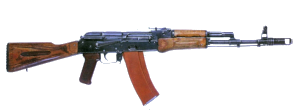
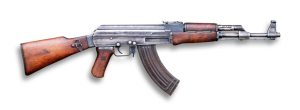
Replaced the AK74 image

Changed region(s): [[0.0, 0.1636, 0.99, 0.9545]]

diff --git a/LICENSE.md b/LICENSE.md
@@ -84,9 +84,9 @@ The following list contains all media elements that have not been created by the
 * FAL-G1 by Kevin Murray  
   Link: https://commons.wikimedia.org/wiki/File:German_FAL-G1_noBG.png  
   License: https://creativecommons.org/licenses/by-sa/3.0/deed.de
-* AK74 by Russian Trooper  
-  Link: https://commons.wikimedia.org/wiki/File:Ak74assault.jpg  
-  License: Public Domain
+* AK74 (is actually a AK47) by Nemo5576  
+  Link: https://commons.wikimedia.org/wiki/File:AK-47_type_II_noBG.png  
+  License: https://creativecommons.org/licenses/by-sa/4.0/deed.en
 * AR10 by Le-boulanger  
   Link: https://commons.wikimedia.org/wiki/File:AR10_Armalite_vue_d%27ensemble_noBG.jpg  
   License: https://creativecommons.org/licenses/by-sa/4.0/deed.de
